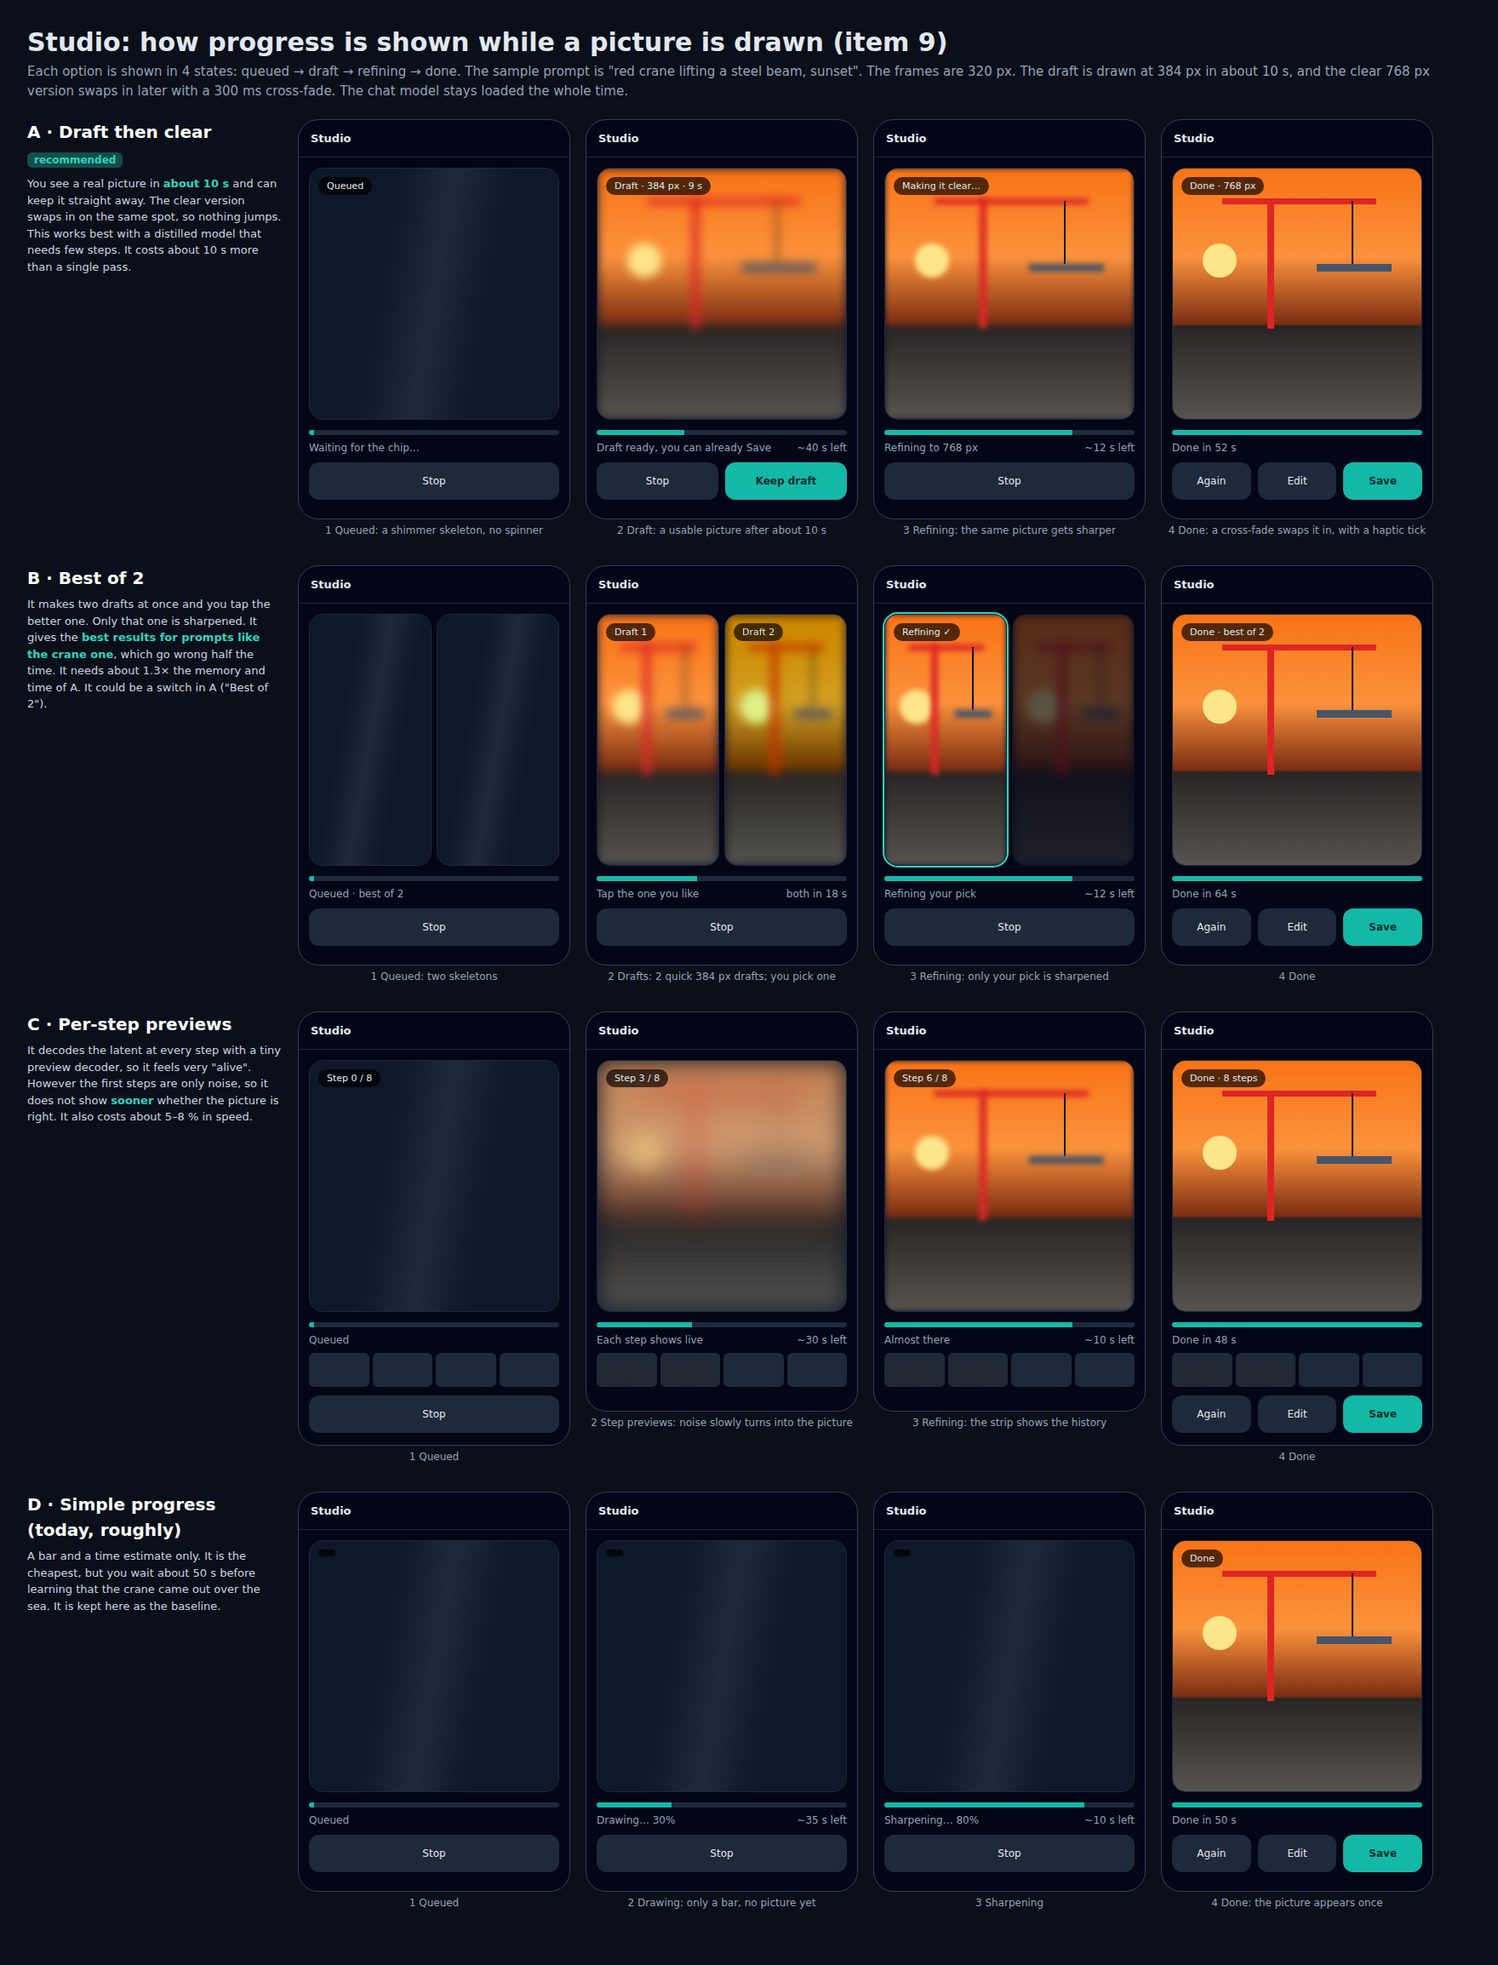
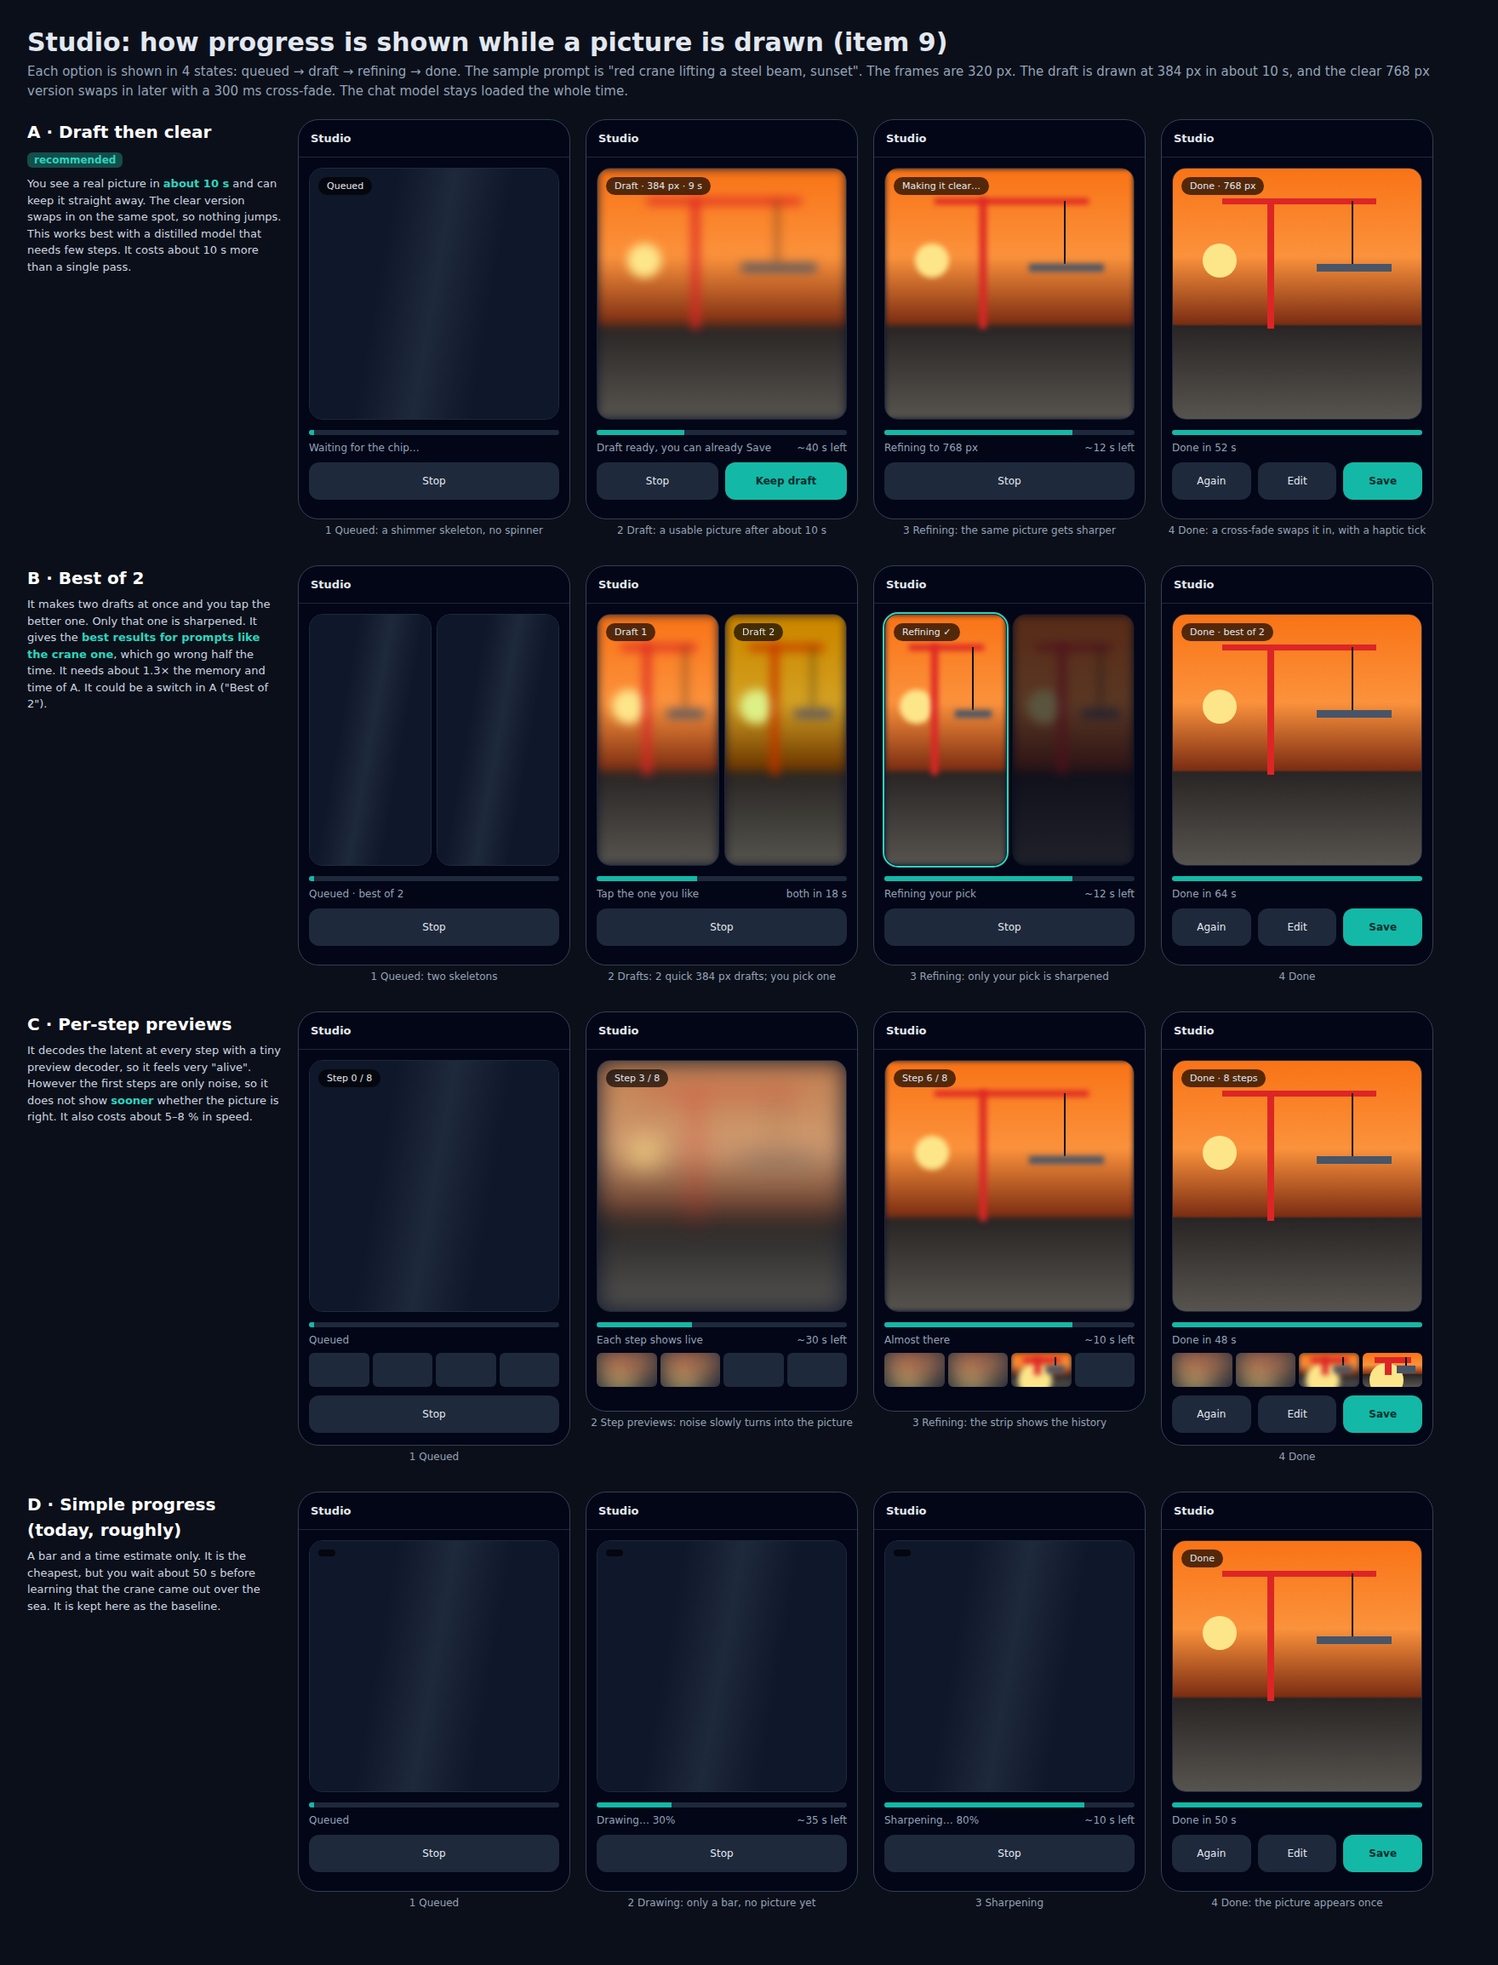
Design options: app-wide UI rework (audit of current screens, 3 directions, rules)
Claude-Session: https://claude.ai/code/session_017PCqDPTgAcHrVkug3iZyua

Changed region(s): [[0.7812, 0.6863, 0.9688, 0.7175], [0.5938, 0.6863, 0.7188, 0.7175], [0.375, 0.6863, 0.5, 0.7175]]

diff --git a/design/src/ui.html b/design/src/ui.html
@@ -1,0 +1,92 @@
+<!doctype html><html><head><meta charset="utf-8"><style>
+*{box-sizing:border-box;margin:0;padding:0}
+body{background:#0b0f19;color:#e2e8f0;font-family:"DejaVu Sans",sans-serif;padding:32px;width:1900px;font-size:13px}
+h1{font-size:30px;margin:8px 0}h2{font-size:21px;margin:26px 0 10px;color:#fff}.sub{color:#94a3b8;font-size:15px;line-height:1.5}
+.shots{display:flex;gap:12px}.shot{width:220px}.shot img{width:220px;border-radius:14px;border:1px solid #334155}.shot div{font-size:12px;color:#94a3b8;text-align:center;margin-top:4px}
+.audit{display:grid;grid-template-columns:1fr 1fr;gap:6px 30px;margin-top:14px}.audit div{background:#111827;border-radius:10px;padding:10px 12px;line-height:1.45}.audit b{color:#fb7185}.audit i{color:#2dd4bf;font-style:normal}
+.dirs{display:flex;gap:24px}.dir{width:440px}.dir h3{font-size:18px;margin-bottom:6px}.dir p{color:#cbd5e1;line-height:1.45;margin-bottom:8px;min-height:96px}
+.tag{background:#134e4a;color:#2dd4bf;border-radius:6px;padding:2px 8px;font-size:12px}
+.pair{display:flex;gap:10px}
+.ph{width:215px;height:440px;background:#020617;border:1px solid #334155;border-radius:20px;overflow:hidden;position:relative;font-size:10px}
+.tb{height:34px;border-bottom:1px solid #1e293b;display:flex;align-items:center;padding:0 10px;font-weight:700;font-size:12px;gap:6px}
+.c{background:#0f172a;border:1px solid #1e293b;border-radius:10px;padding:7px;margin:6px 8px}
+.sk{height:9px;border-radius:4px;background:linear-gradient(90deg,#1e293b,#334155,#1e293b);margin:5px 0}
+.nav{position:absolute;bottom:0;left:0;right:0;height:40px;border-top:1px solid #1e293b;display:flex;justify-content:space-around;align-items:center;color:#64748b;background:#020617}.nav .on{color:#2dd4bf}
+.in{position:absolute;bottom:46px;left:8px;right:8px;height:38px;border-radius:14px;border:1px solid #334155;background:#0f172a;display:flex;align-items:center;padding:0 10px;color:#64748b}
+.mic{margin-left:auto;width:26px;height:26px;border-radius:50%;background:#14b8a6}
+.g{display:grid;grid-template-columns:1fr 1fr;gap:5px;margin:6px 8px}.g div{background:#0f172a;border:1px solid #1e293b;border-radius:10px;height:46px;padding:6px}
+.sheet{position:absolute;left:0;right:0;bottom:0;background:#0f172a;border-radius:16px 16px 0 0;border-top:1px solid #334155;padding:8px}
+.grab{width:30px;height:3px;background:#475569;border-radius:2px;margin:0 auto 6px}
+.rail{position:absolute;left:0;top:34px;bottom:0;width:44px;border-right:1px solid #1e293b;display:flex;flex-direction:column;gap:12px;align-items:center;padding-top:10px;color:#64748b}
+.dot{width:22px;height:22px;border-radius:7px;background:#1e293b}.dot.on{background:#134e4a;outline:1px solid #2dd4bf}
+.pc{display:grid;grid-template-columns:repeat(3,1fr);gap:16px}.pc div{background:#111827;border-radius:12px;padding:12px;line-height:1.5}.pc b{color:#2dd4bf}
+table{border-collapse:collapse;margin-top:8px}td,th{border:1px solid #334155;padding:6px 10px;text-align:left}th{background:#111827}
+</style></head><body>
+<h1>App-wide UI/UX rework: audit, 3 directions, rules (item 13)</h1>
+<div class="sub">Real screenshots of the current build (v6.9 web code, 390 px, taken with Playwright), the 10 biggest problems I see, then 3 directions to choose from, then the rules that apply to whichever direction is picked.</div>
+
+<h2>1 · The current app (design/current-*.png)</h2>
+<div class="shots">
+<div class="shot"><img src="../current-home.png"><div>① current-home.png (Chat)</div></div>
+<div class="shot"><img src="../current-more.png"><div>② current-more.png</div></div>
+<div class="shot"><img src="../current-fit.png"><div>③ current-fit.png</div></div>
+<div class="shot"><img src="../current-studio.png"><div>④ current-studio.png</div></div>
+<div class="shot"><img src="../current-money.png"><div>⑤ current-money.png</div></div>
+<div class="shot"><img src="../current-instant.png"><div>⑥ current-instant.png</div></div>
+<div class="shot"><img src="../current-business.png"><div>⑦ current-business.png</div></div>
+</div>
+<div class="audit">
+<div><b>1. The More sheet is a wall of 32 tiles</b> ②. There are 30+ cards with 2–4 line descriptions, so "Fit & Food" is the 21st tile, several screens down. <i>Fix: search at the top, pinned or recent apps, 1-line labels, and a 4-column icon grid.</i></div>
+<div><b>2. Fit opens on a long plan form</b> ③. Before you can log a single meal you face sex, age, height, weight, activity, goal, pace and style (about 15 controls). <i>Fix: ask 3 questions first, and make Today the home.</i></div>
+<div><b>3. Each mini-app asks for the language again</b> ⑤. The Money screen asks "English / العربية" even though the app language is already set. It also uses another background (#111 vs slate-950) and another, heavier font. <i>Fix: one theme and one language setting for the whole app.</i></div>
+<div><b>4. Six bottom tabs, and two of them are niche</b> ①. Business and Money get a permanent tab, but Fit, Studio and Converter do not. Six tabs make each target about 65 px wide with 11 px labels. <i>Fix: 4–5 tabs; the user picks the pinned apps.</i></div>
+<div><b>5. A blank dead end on the web or on unsupported phones</b> ④. Studio shows one sentence and an empty page, with no example and no next step. <i>Fix: designed empty states (an illustration, one line and 1 action).</i></div>
+<div><b>6. "No model" chip in the top bar on every screen</b> ①③④. It is a 100 px technical status that competes with the title, and it is shown even where no model is used. <i>Fix: show it only in Chat, or as a 6 px status dot.</i></div>
+<div><b>7. Spinners and full reloads instead of skeletons</b>. Code count: 19 spinners (animate-spin) in attune.jsx, and the screen reloads after a crash or memory event (item 10). <i>Fix: skeleton blocks, an optimistic UI, and restoring the state after a process kill.</i></div>
+<div><b>8. No motion system</b>. Screens swap with no transition. Bottom sheets appear without a slide or a scrim fade, and there is no drag-to-close. <i>Fix: the motion rules below.</i></div>
+<div><b>9. Typography is not on a scale</b> ①②③. Many ad-hoc sizes; in ② the tile titles look as big as the screen title. <i>Fix: a 6-step type scale.</i></div>
+<div><b>10. Chat home prompts are generic, and "Crane question" is hard-coded</b> ①. There are 6 big tiles but no recent chats, and Think / Web are 2 toggles that take room from the input. <i>Fix: recent chats and suggestions that learn; move Think and Web into a "+" menu.</i></div>
+</div>
+
+<h2>2 · Three directions</h2>
+<div class="dirs">
+<div class="dir"><h3>A · "Calm hub" <span class="tag">recommended</span></h3><p>There are 4 tabs: <b>Home · Chat · Apps · You</b>. Home is a short daily screen with today's calories, money, reminders and the pinned apps. Apps is a searchable 4-column grid. Every app shares one shell (top bar, back gesture, sheet). The colours and the dark theme stay as they are; this direction is mostly order and motion.</p>
+<div class="pair">
+<div class="ph"><div class="tb">Good morning, Ali</div><div class="c"><b>Today</b><div class="sk" style="width:70%"></div>1,240 kcal left · 3 reminders · −120 EGP</div>
+<div class="c"><b>Pinned</b><div style="display:flex;gap:6px;margin-top:5px"><div class="dot"></div><div class="dot"></div><div class="dot"></div><div class="dot"></div><div class="dot"></div></div></div>
+<div class="c"><b>Continue</b><br>Chat · "Liebherr load chart…"<br>Report · Site incident 3 Oct</div>
+<div class="c"><div class="sk"></div><div class="sk" style="width:60%"></div>skeleton while loading</div>
+<div class="nav"><span class="on">Home</span><span>Chat</span><span>Apps</span><span>You</span></div></div>
+<div class="ph"><div class="tb">Apps</div><div class="c" style="color:#64748b">🔍 Search 32 apps</div>
+<div style="display:grid;grid-template-columns:repeat(4,1fr);gap:8px;margin:8px;text-align:center">
+<div><div class="dot" style="margin:auto;width:34px;height:34px"></div>Fit</div><div><div class="dot" style="margin:auto;width:34px;height:34px"></div>Money</div><div><div class="dot" style="margin:auto;width:34px;height:34px"></div>Studio</div><div><div class="dot" style="margin:auto;width:34px;height:34px"></div>Mind</div>
+<div><div class="dot" style="margin:auto;width:34px;height:34px"></div>Convert</div><div><div class="dot" style="margin:auto;width:34px;height:34px"></div>Business</div><div><div class="dot" style="margin:auto;width:34px;height:34px"></div>Cranes</div><div><div class="dot" style="margin:auto;width:34px;height:34px"></div>Slides</div>
+<div><div class="dot" style="margin:auto;width:34px;height:34px"></div>PDF</div><div><div class="dot" style="margin:auto;width:34px;height:34px"></div>Reminders</div><div><div class="dot" style="margin:auto;width:34px;height:34px"></div>Travel</div><div><div class="dot" style="margin:auto;width:34px;height:34px"></div>Code</div></div>
+<div class="nav"><span>Home</span><span>Chat</span><span class="on">Apps</span><span>You</span></div></div></div></div>
+
+<div class="dir"><h3>B · "Chat is the app"</h3><p>There is a single screen with the chat input always at the bottom. Apps open as <b>full-height bottom sheets</b> on top of the chat, from a "/" command or from a chip row above the input. The shell is the fewest of any option and very modern, but heavy apps like Business, Fit and Converter feel cramped in a sheet. It also changes muscle memory the most.</p>
+<div class="pair">
+<div class="ph"><div class="tb">Attune</div><div class="c">You: log foul and bread for breakfast</div><div class="c" style="border-color:#134e4a">✓ Added to Fit · 420 kcal <span style="color:#2dd4bf">Undo</span></div>
+<div style="position:absolute;bottom:50px;left:8px;right:8px;display:flex;gap:4px"><span class="c" style="margin:0">Fit</span><span class="c" style="margin:0">Money</span><span class="c" style="margin:0">Studio</span><span class="c" style="margin:0">/ more</span></div>
+<div class="in" style="bottom:8px">Message…<span class="mic"></span></div></div>
+<div class="ph"><div class="tb" style="opacity:.3">Attune</div><div style="position:absolute;inset:0;background:#000a"></div><div class="sheet" style="top:60px"><div class="grab"></div><b>Fit &amp; Food</b><div class="c">1,240 left</div><div class="c"><div class="sk"></div><div class="sk"></div></div><div class="c"><div class="sk" style="width:50%"></div></div></div></div></div></div>
+
+<div class="dir"><h3>C · "Workspace rail"</h3><p>A slim left rail (it moves to the right in RTL) holds pinned apps, and the content gets the full height with no bottom bar. It suits big phones and foldables, and it shows the most at once. However it is unusual on Android phones, harder to reach one-handed, and costs about 44 px of width on 390 px screens.</p>
+<div class="pair">
+<div class="ph"><div class="tb">Fit &amp; Food</div><div class="rail"><div class="dot"></div><div class="dot on"></div><div class="dot"></div><div class="dot"></div><div class="dot"></div><div style="margin-top:auto;margin-bottom:10px" class="dot"></div></div>
+<div style="margin-left:46px"><div class="c">1,240 kcal left</div><div class="c"><div class="sk"></div><div class="sk"></div></div><div class="c"><div class="sk" style="width:60%"></div></div></div></div>
+<div class="ph"><div class="tb">Chat</div><div class="rail"><div class="dot on"></div><div class="dot"></div><div class="dot"></div><div class="dot"></div></div><div style="margin-left:46px"><div class="c">Recent chats</div><div class="c"><div class="sk"></div></div></div><div class="in" style="left:52px">Message…<span class="mic"></span></div></div></div></div>
+</div>
+
+<h2>3 · Design principles &amp; concrete rules (apply to any direction)</h2>
+<div class="pc">
+<div><b>Principles</b><br>1. The phone does the work: never ask for what we already know (language, country, units).<br>2. Show something useful in under 300 ms: cached data or a skeleton, never a blank screen.<br>3. One primary action per screen, in teal, in the thumb zone.<br>4. Undo instead of "Are you sure?".<br>5. The same shell everywhere: every mini-app looks like one app.<br>6. Arabic is first-class: mirrored layout, Arabic digits, a proper Arabic font.<br>7. Calm: one accent colour, no emoji as icons in chrome.</div>
+<div><b>Measurable rules</b><br>• Touch targets ≥ 48×48 px (today the 11 px tab labels and chips at about 36 px fail).<br>• ≤ 2 taps from launch to the 5 common actions: chat, log a meal, add an expense, a reminder, a photo action.<br>• Skeletons instead of spinners for any wait over 150 ms, and a progress bar plus a time estimate over 3 s.<br>• No full reloads: restore the route, scroll position and draft after a process kill (state in IndexedDB).<br>• Type scale: 12 / 14 / 16 / 20 / 24 / 32 px, line height 1.4, weights 400 / 600 / 700 only.<br>• Spacing on a 4 px grid: 8 / 12 / 16 / 24 px; screen gutter 16 px; card radius 16 px; sheet radius 24 px.</div>
+<div><b>Motion &amp; haptics</b><br>• Push and pop between screens: a 220 ms slide plus fade, ease-out (cubic-bezier .2,.8,.2,1).<br>• Bottom sheets: a 260 ms spring up, a scrim fading to 60 %, drag to close, and Back closes the sheet first.<br>• Shared-element transitions: an app tile grows into the app's header, and a meal chip flies into the ring (View Transitions API, with a cross-fade fallback).<br>• Numbers count up from their old value (250 ms).<br>• Respect "reduce motion" by switching to cross-fades only.<br>• Haptics: a light tick on add or toggle, a medium one on save or done, a heavy one only on errors (Android performHapticFeedback through the bridge).</div>
+</div>
+<table><tr><th></th><th>A Calm hub</th><th>B Chat is the app</th><th>C Workspace rail</th></tr>
+<tr><td>Taps to log a meal from launch</td><td>2 (Home → chip)</td><td>1–2 (type it or use the chip)</td><td>2</td></tr>
+<tr><td>Taps to reach Fit</td><td>1 if pinned, else 2</td><td>1 (chip)</td><td>1</td></tr>
+<tr><td>Change for existing users</td><td>medium</td><td>high</td><td>high</td></tr>
+<tr><td>Effort to build (hours)</td><td>~40</td><td>~55</td><td>~45</td></tr></table>
+</body></html>

diff --git a/design/src/studio.html b/design/src/studio.html
@@ -22,7 +22,7 @@ h1{font-size:30px}.sub{color:#94a3b8;font-size:15px;margin:6px 0 22px;line-heigh
 .row{display:flex;justify-content:space-between;margin:8px 12px 0;font-size:12px;color:#94a3b8}
 .btns{display:flex;gap:8px;margin:10px 12px}.b{flex:1;height:44px;border-radius:12px;background:#1e293b;display:grid;place-items:center;font-size:12px}.p{background:#14b8a6;color:#042f2e;font-weight:700}
 .two{display:flex;gap:6px;margin:12px;height:296px}.two .img{margin:0;flex:1;height:100%}
-.steps{display:flex;gap:4px;margin:0 12px}.steps div{flex:1;height:40px;margin-top:8px;border-radius:6px;background:#1e293b;overflow:hidden;position:relative}
+.steps{display:flex;gap:4px;margin:0 12px}.steps>div{flex:1;height:40px;margin-top:8px;border-radius:6px;background:#1e293b;overflow:hidden;position:relative}
 .sel{outline:2px solid #2dd4bf}
 </style></head><body>
 <h1>Studio: how progress is shown while a picture is drawn (item 9)</h1>

diff --git a/design/src/studio.out.html b/design/src/studio.out.html
@@ -22,7 +22,7 @@ h1{font-size:30px}.sub{color:#94a3b8;font-size:15px;margin:6px 0 22px;line-heigh
 .row{display:flex;justify-content:space-between;margin:8px 12px 0;font-size:12px;color:#94a3b8}
 .btns{display:flex;gap:8px;margin:10px 12px}.b{flex:1;height:44px;border-radius:12px;background:#1e293b;display:grid;place-items:center;font-size:12px}.p{background:#14b8a6;color:#042f2e;font-weight:700}
 .two{display:flex;gap:6px;margin:12px;height:296px}.two .img{margin:0;flex:1;height:100%}
-.steps{display:flex;gap:4px;margin:0 12px}.steps div{flex:1;height:40px;margin-top:8px;border-radius:6px;background:#1e293b;overflow:hidden;position:relative}
+.steps{display:flex;gap:4px;margin:0 12px}.steps>div{flex:1;height:40px;margin-top:8px;border-radius:6px;background:#1e293b;overflow:hidden;position:relative}
 .sel{outline:2px solid #2dd4bf}
 </style></head><body>
 <h1>Studio: how progress is shown while a picture is drawn (item 9)</h1>
